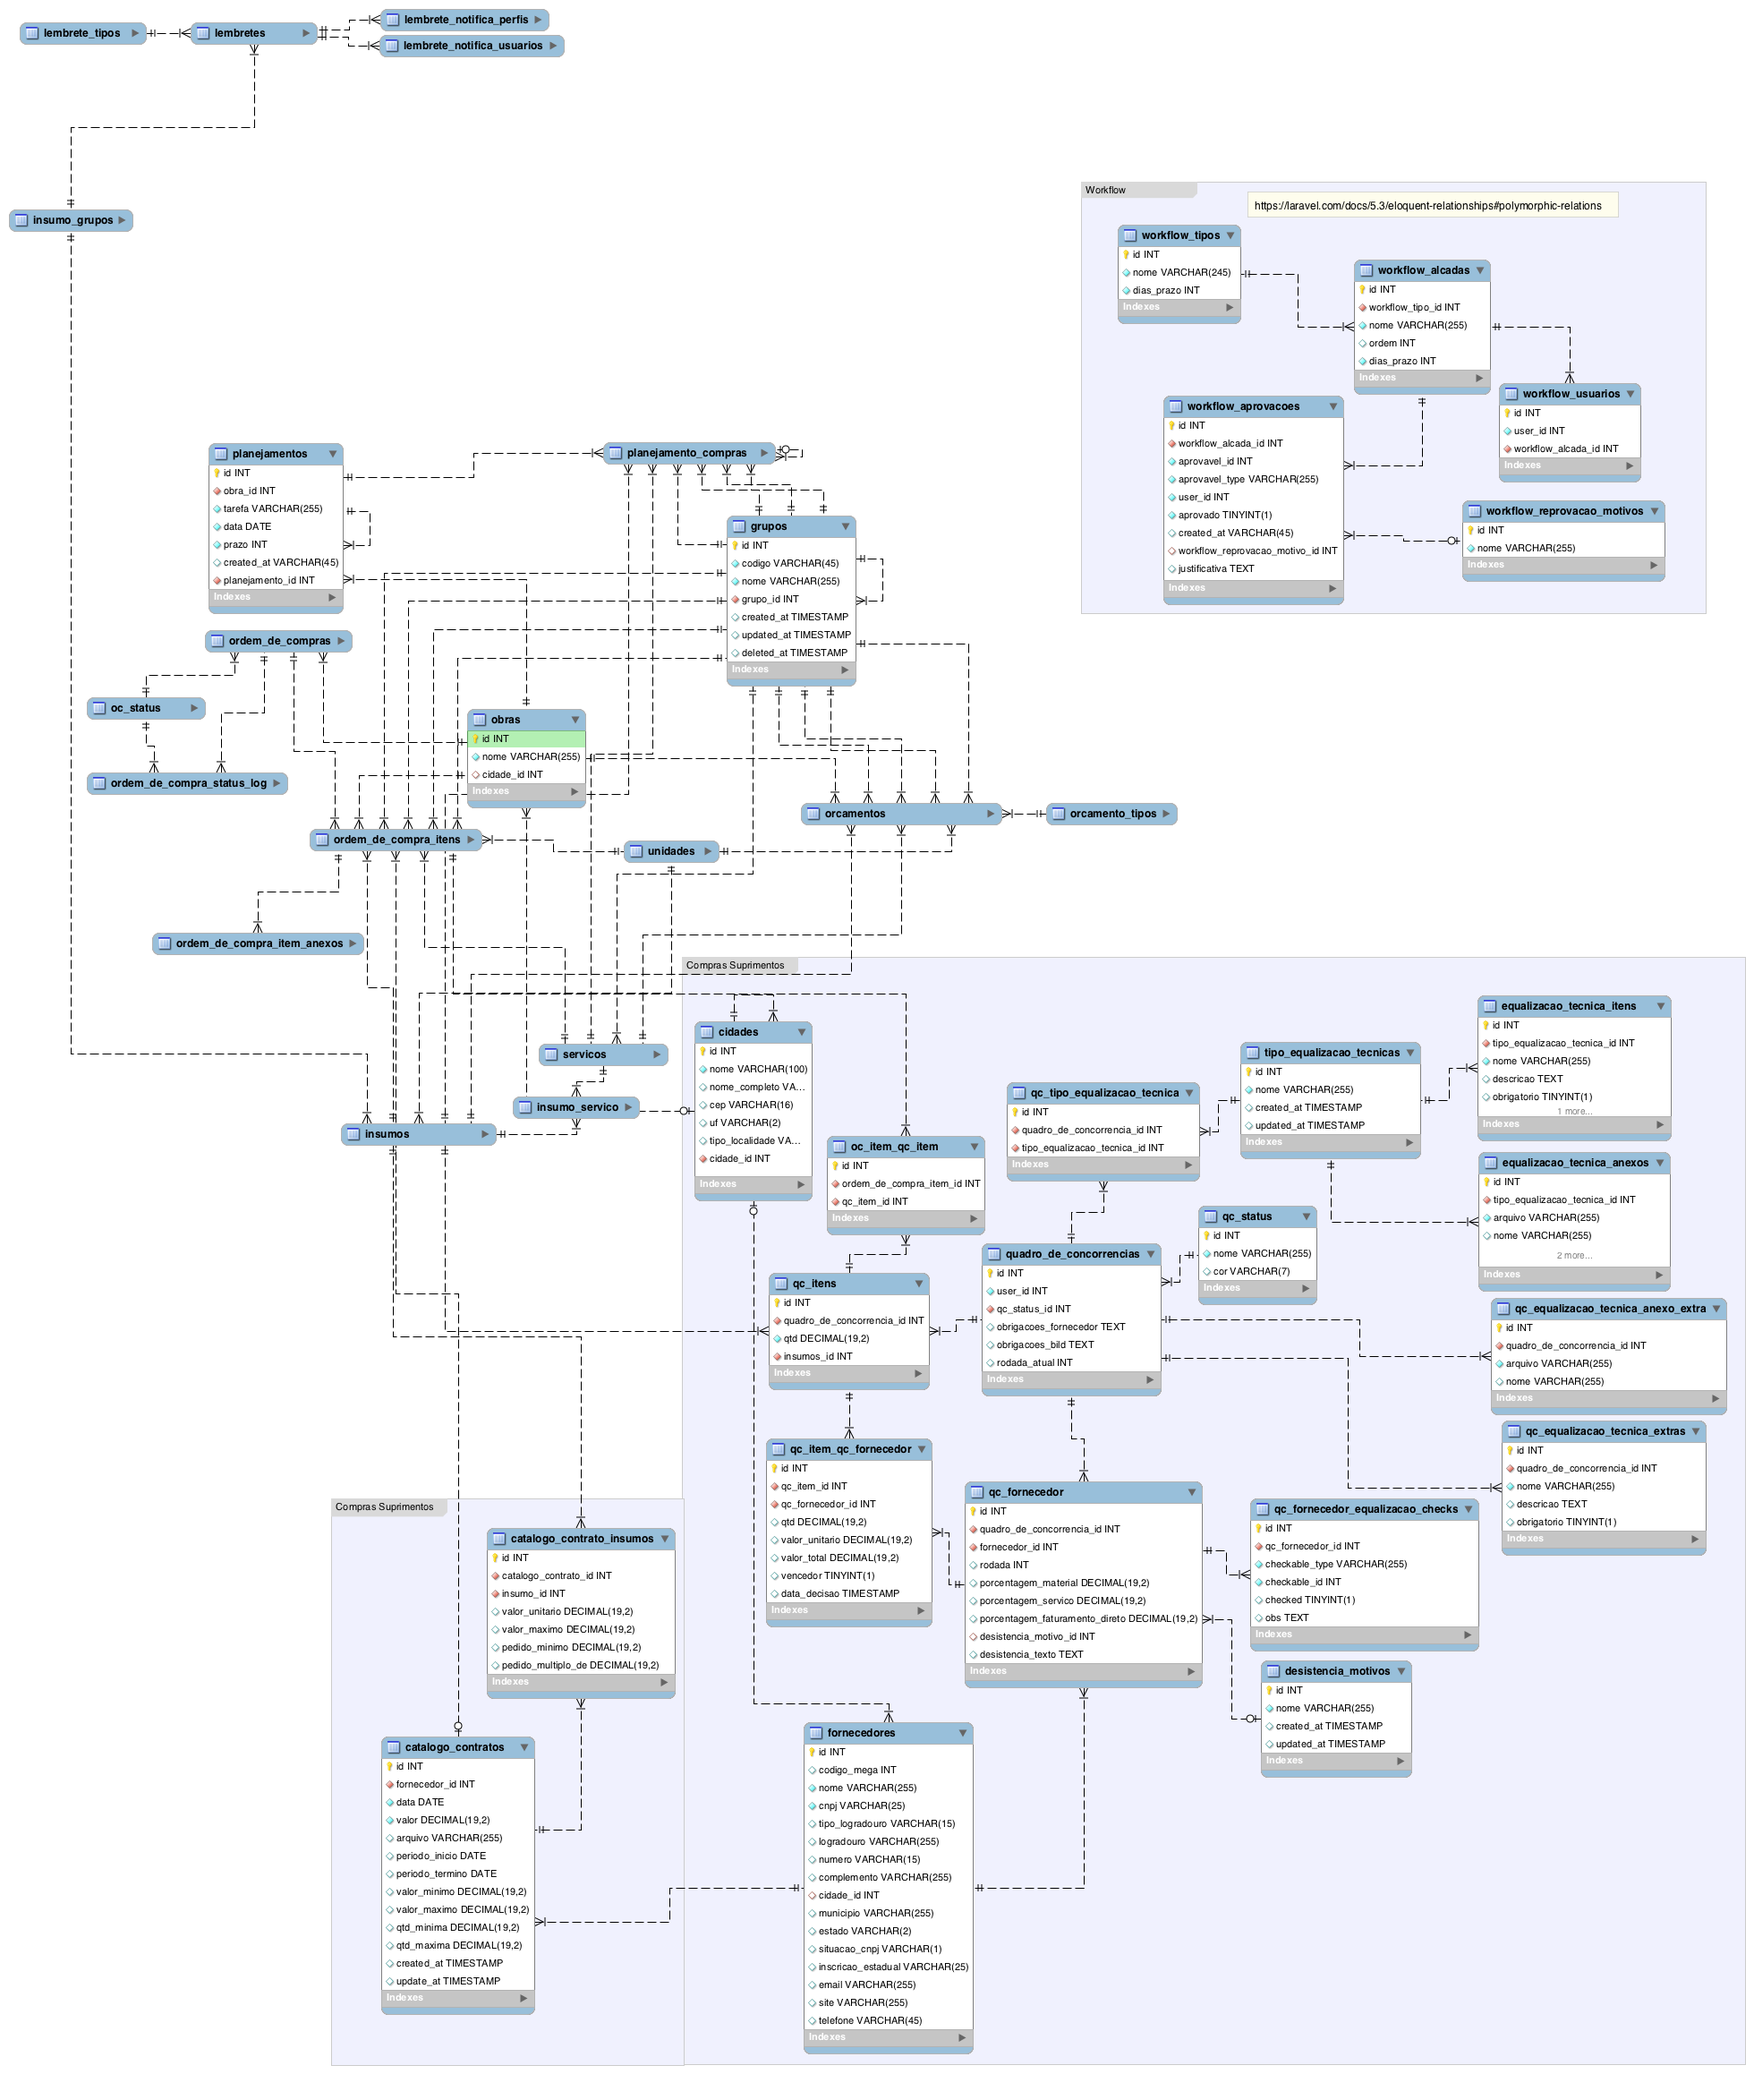
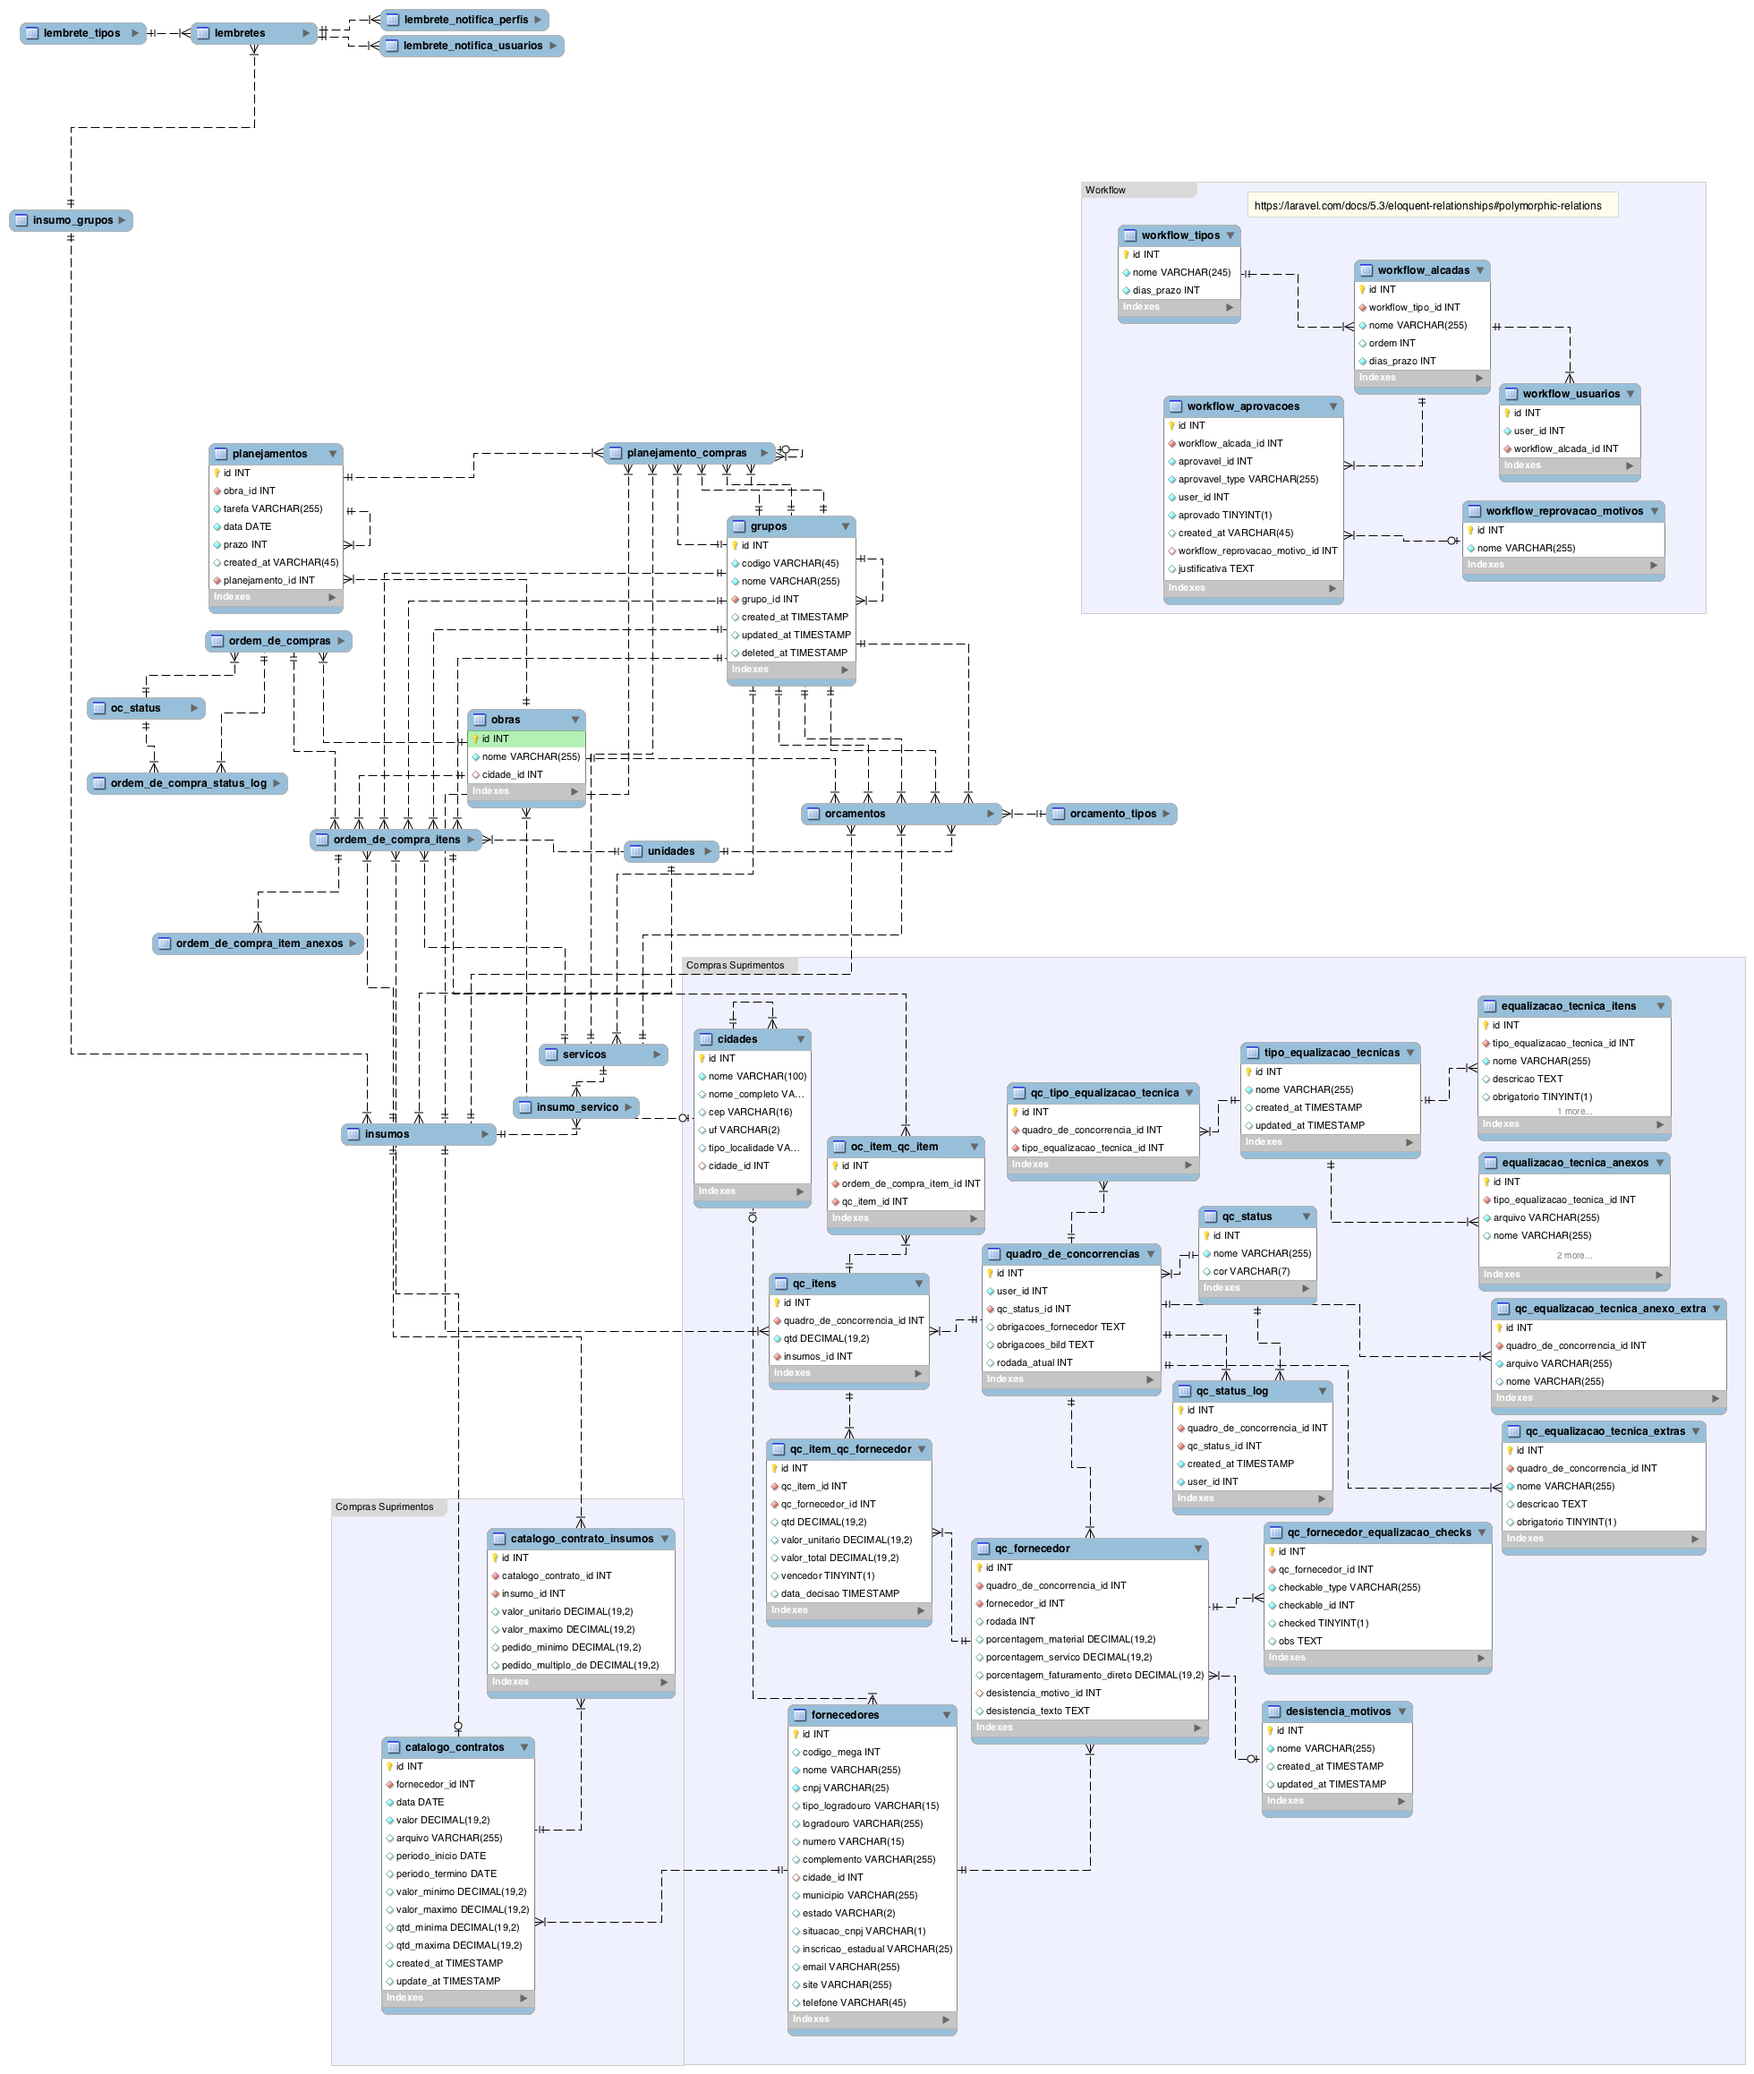
BS-116 Adicionado log de alterações de status

Changed region(s): [[0.4357, 0.6526, 0.8714, 0.9944], [0.3735, 0.4661, 0.4668, 0.5904]]

diff --git a/database/migrations/2017_04_25_002837_create_qc_status_log_table.php b/database/migrations/2017_04_25_002837_create_qc_status_log_table.php
@@ -1,0 +1,51 @@
+<?php
+
+use Illuminate\Support\Facades\Schema;
+use Illuminate\Database\Schema\Blueprint;
+use Illuminate\Database\Migrations\Migration;
+
+class CreateQcStatusLogTable extends Migration
+{
+    /**
+     * Run the migrations.
+     *
+     * @return void
+     */
+    public function up()
+    {
+        Schema::create('qc_status_log', function (Blueprint $table) {
+            $table->engine = 'InnoDB';
+            $table->increments('id');
+            $table->unsignedInteger('quadro_de_concorrencia_id');
+            $table->unsignedInteger('qc_status_id');
+            $table->timestamps();
+            $table->unsignedInteger('user_id');
+
+
+            $table->foreign('user_id')
+                ->references('id')->on('users')
+                ->onDelete('cascade')
+                ->onUpdate('cascade');
+
+            $table->foreign('quadro_de_concorrencia_id')
+                ->references('id')->on('quadro_de_concorrencias')
+                ->onDelete('cascade')
+                ->onUpdate('cascade');
+
+            $table->foreign('qc_status_id')
+                ->references('id')->on('qc_status')
+                ->onDelete('cascade')
+                ->onUpdate('cascade');
+        });
+    }
+
+    /**
+     * Reverse the migrations.
+     *
+     * @return void
+     */
+    public function down()
+    {
+        Schema::dropIfExists('qc_status_log');
+    }
+}
